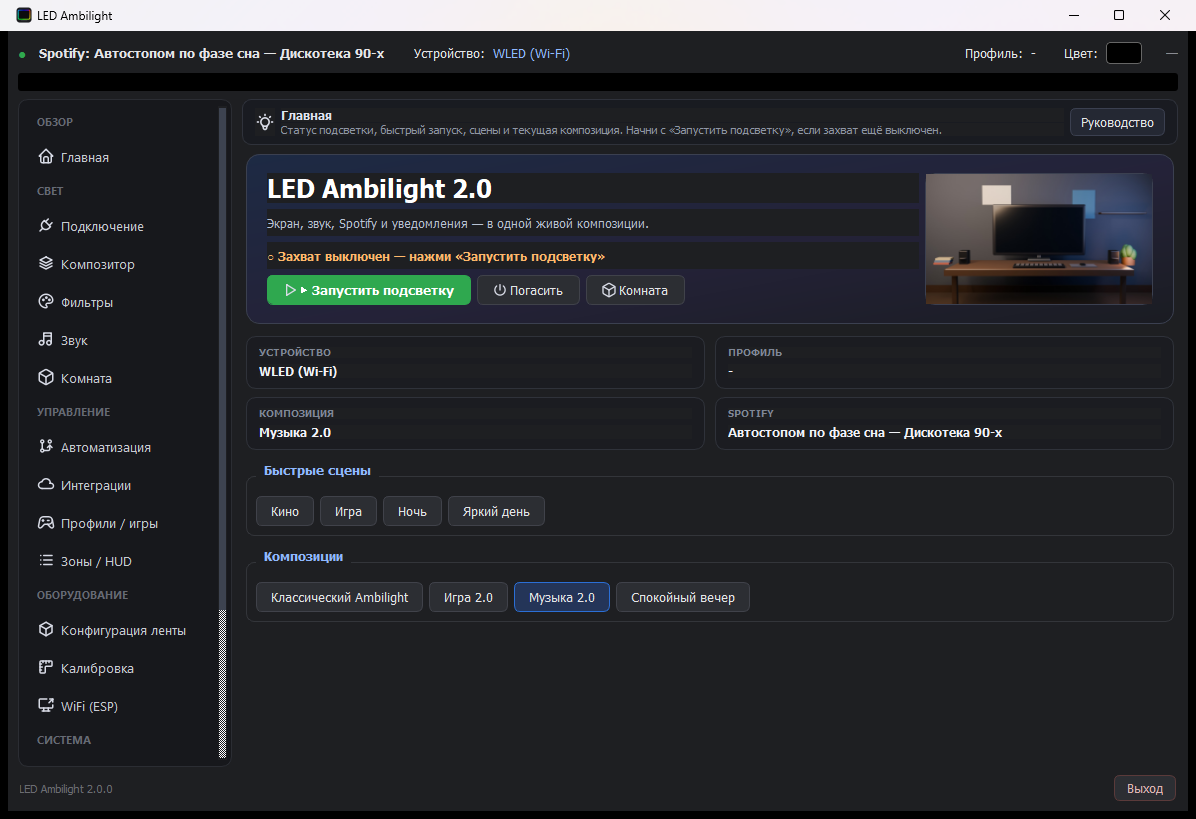
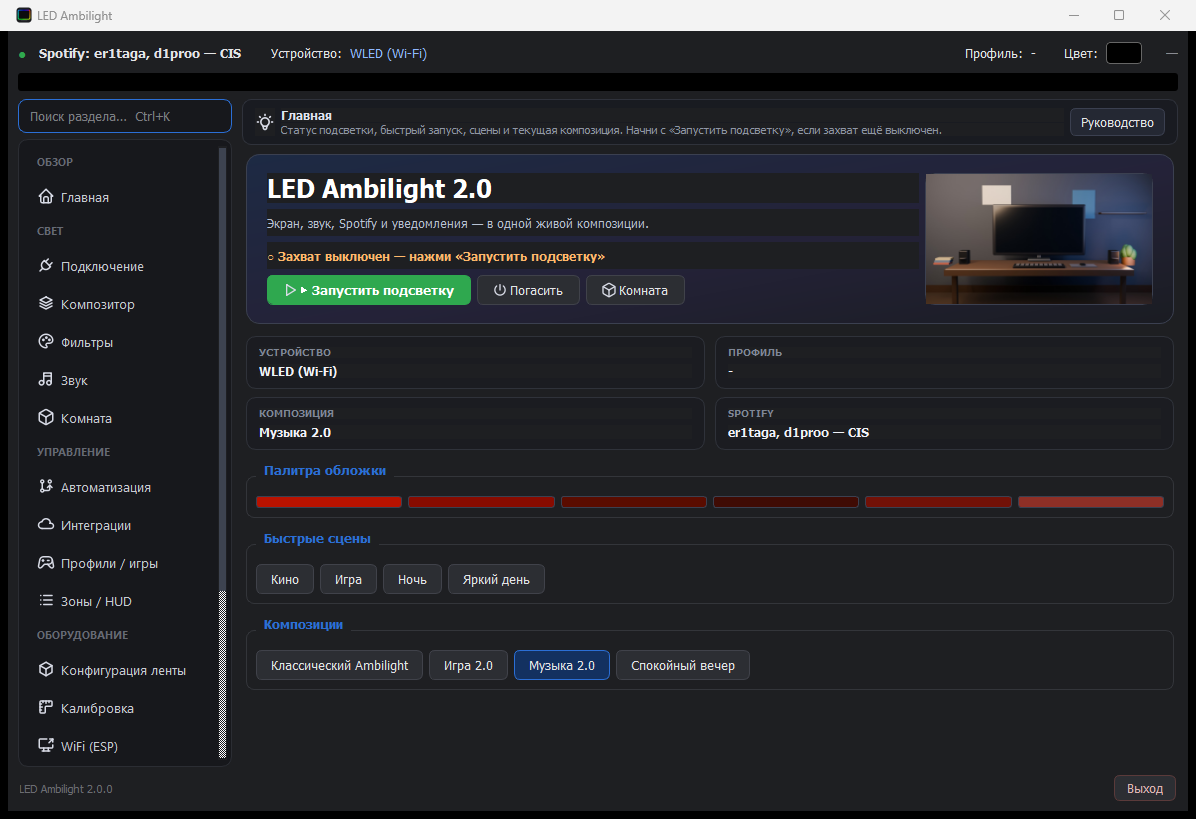
Темы, акценты, поиск разделов и палитра на главной

diff --git a/ledapp/gui.py b/ledapp/gui.py
@@ -43,6 +43,7 @@ from .automation import AutomationEngine
 from .automation_widget import AutomationWidget
 from .integrations_widget import IntegrationsWidget
 from .user_guide import GUIDE_HTML, PAGE_HELP
+from .style import build_stylesheet
 from . import autostart, i18n, updater, __version__
 
 log = logging.getLogger(__name__)
@@ -850,6 +851,9 @@ class MainWindow(QMainWindow):
                                         # но при этом окно свободно уменьшается/растягивается
 
         self.config = load_config()
+        self._ui_accent = self.config.get("ui", {}).get("accent", "#2b6fd6")
+        self._ui_theme = self.config.get("ui", {}).get("theme", "midnight")
+        self._apply_ui_theme()
         i18n.install(self.config.get("language", "ru"))
 
         self._save_timer = QTimer()
@@ -1456,12 +1460,21 @@ class MainWindow(QMainWindow):
 
         content_row = QHBoxLayout()
         content_row.setSpacing(10)
+        sidebar_col = QVBoxLayout()
+        sidebar_col.setSpacing(6)
+        self.sidebar_search = QLineEdit()
+        self.sidebar_search.setObjectName("sidebarSearch")
+        self.sidebar_search.setPlaceholderText("Поиск раздела…  Ctrl+K")
+        self.sidebar_search.setClearButtonEnabled(True)
+        self.sidebar_search.textChanged.connect(self._filter_sidebar)
+        sidebar_col.addWidget(self.sidebar_search)
         self.sidebar = QListWidget()
         self.sidebar.setObjectName("sidebar")
         self.sidebar.setFixedWidth(214)
         self.sidebar.setIconSize(QSize(18, 18))
         self.sidebar.currentRowChanged.connect(self._on_sidebar_changed)
-        content_row.addWidget(self.sidebar)
+        sidebar_col.addWidget(self.sidebar, 1)
+        content_row.addLayout(sidebar_col)
 
         content_col = QVBoxLayout()
         content_col.setSpacing(8)
@@ -1495,6 +1508,8 @@ class MainWindow(QMainWindow):
         content_col.addWidget(tabs, 1)
         content_row.addLayout(content_col, 1)
         root.addLayout(content_row, 1)
+        QShortcut("Ctrl+K", self,
+                  activated=lambda: self.sidebar_search.setFocus())
         self.tabs = tabs
 
         tabs.addTab(self._build_dashboard(), "Главная")
@@ -1774,6 +1789,24 @@ class MainWindow(QMainWindow):
         path = os.path.join(RESOURCE_DIR, "assets", "icons", f"{name}.svg")
         return QIcon(path) if os.path.exists(path) else QIcon()
 
+    def _apply_ui_theme(self):
+        app = QApplication.instance()
+        if app is None:
+            return
+        self._ui_theme = (self.config.get("ui") or {}).get("theme", "midnight")
+        self._ui_accent = (self.config.get("ui") or {}).get("accent", "#2b6fd6")
+        app.setStyleSheet(build_stylesheet(self._ui_theme, self._ui_accent))
+
+    def _on_ui_theme_changed(self, theme):
+        self.config.setdefault("ui", {})["theme"] = str(theme)
+        self._apply_ui_theme()
+        self._queue_save()
+
+    def _on_ui_accent_changed(self, accent):
+        self.config.setdefault("ui", {})["accent"] = str(accent)
+        self._apply_ui_theme()
+        self._queue_save()
+
     def _populate_sidebar(self):
         self.sidebar.blockSignals(True)
         self.sidebar.clear()
@@ -1820,6 +1853,21 @@ class MainWindow(QMainWindow):
                     item.setToolTip(tab_help)
             self.sidebar.addItem(item)
         self.sidebar.blockSignals(False)
+        self._filter_sidebar(self.sidebar_search.text()
+                             if hasattr(self, "sidebar_search") else "")
+
+    def _filter_sidebar(self, text):
+        if not hasattr(self, "sidebar"):
+            return
+        query = str(text or "").strip().lower()
+        for row in range(self.sidebar.count()):
+            item = self.sidebar.item(row)
+            if item is None:
+                continue
+            if item.data(Qt.UserRole) is None:
+                item.setHidden(bool(query))
+            else:
+                item.setHidden(bool(query) and query not in item.text().lower())
 
     def _on_sidebar_changed(self, row):
         item = self.sidebar.item(row)
@@ -1895,6 +1943,20 @@ class MainWindow(QMainWindow):
         self.dash_spotify = self._dashboard_card(cards, 1, 1, "Spotify", "—")
         layout.addLayout(cards)
 
+        palette_group = QGroupBox("Палитра обложки")
+        palette_row = QHBoxLayout(palette_group)
+        self.dash_palette_labels = []
+        for _ in range(6):
+            swatch = QLabel()
+            swatch.setFixedHeight(12)
+            swatch.setMinimumWidth(24)
+            swatch.setStyleSheet(
+                "background:#2b2e38; border-radius:3px; border:1px solid #3b4050;"
+            )
+            palette_row.addWidget(swatch, 1)
+            self.dash_palette_labels.append(swatch)
+        layout.addWidget(palette_group)
+
         quick = QGroupBox("Быстрые сцены")
         quick_row = QHBoxLayout(quick)
         for name in ("Кино", "Игра", "Ночь", "Яркий день"):
@@ -1966,6 +2028,19 @@ class MainWindow(QMainWindow):
             f"{track.get('artists', '')} — {track.get('name', '')}"
             if track else "Не играет"
         )
+        palette = getattr(self.worker, "spotify_palette", None) or []
+        for index, swatch in enumerate(getattr(self, "dash_palette_labels", [])):
+            if palette:
+                color = palette[index % len(palette)]
+                if isinstance(color, (list, tuple)) and len(color) >= 3:
+                    swatch.setStyleSheet(
+                        "background: rgb(%d,%d,%d); border-radius:3px;"
+                        " border:1px solid #3b4050;" % tuple(color[:3])
+                    )
+                    continue
+            swatch.setStyleSheet(
+                "background:#2b2e38; border-radius:3px; border:1px solid #3b4050;"
+            )
         for composition_id, button in getattr(self, "dash_comp_buttons", {}).items():
             button.setProperty("active", composition_id == active)
             button.style().unpolish(button)
@@ -5076,6 +5151,42 @@ class MainWindow(QMainWindow):
     def _build_system_tab(self):
         w = QWidget()
         layout = QVBoxLayout(w)
+
+        # --- оформление ---
+        appearance = QGroupBox("Оформление")
+        appearance_form = QFormLayout(appearance)
+        ui_cfg = self.config.get("ui", {})
+        theme_combo = QComboBox()
+        theme_combo.addItem("Ночной синий", "midnight")
+        theme_combo.addItem("Океан", "ocean")
+        theme_combo.addItem("Слива", "plum")
+        theme_combo.addItem("Лес", "forest")
+        theme_combo.setCurrentIndex(
+            max(0, theme_combo.findData(ui_cfg.get("theme", "midnight")))
+        )
+        theme_combo.currentIndexChanged.connect(
+            lambda i: self._on_ui_theme_changed(theme_combo.itemData(i))
+        )
+        appearance_form.addRow("Цветовая тема:", theme_combo)
+
+        accent_combo = QComboBox()
+        for name, color in (
+            ("Синий", "#2b6fd6"), ("Зелёный", "#2fa84f"),
+            ("Фиолетовый", "#8b5cf6"), ("Оранжевый", "#f08a24"),
+            ("Розовый", "#e04f8a"),
+        ):
+            accent_combo.addItem(name, color)
+        accent_combo.setCurrentIndex(
+            max(0, accent_combo.findData(ui_cfg.get("accent", "#2b6fd6")))
+        )
+        accent_combo.currentIndexChanged.connect(
+            lambda i: self._on_ui_accent_changed(accent_combo.itemData(i))
+        )
+        appearance_form.addRow("Акцент:", accent_combo)
+        appearance_form.addRow(QLabel(
+            "Тема меняет фон и боковое меню, акцент — выделение, ползунки и кнопки."
+        ))
+        layout.addWidget(appearance)
 
         # --- производительность ---
         perf_box = QGroupBox("Производительность")

diff --git a/ledapp/style.py b/ledapp/style.py
@@ -387,4 +387,55 @@ QTextBrowser#guideBrowser {
     color: #e4e6ec;
 }
 
+QLineEdit#sidebarSearch {
+    background-color: #17181c;
+    border: 1px solid #2f323b;
+    border-radius: 8px;
+    padding: 7px 9px;
+    color: #e4e6ec;
+    selection-background-color: #2b6fd6;
+}
+QLineEdit#sidebarSearch:focus {
+    border-color: #2b6fd6;
+}
+
 """
+
+THEME_TINTS = {
+    "midnight": {},
+    "ocean": {
+        "#1e1f22": "#10202b", "#232428": "#182a36", "#17181c": "#0e1b24",
+        "#1b1c21": "#14232e", "#191b21": "#12222c", "#1a1c22": "#10212c",
+        "#1d2a44": "#12384a", "#242238": "#1c3040", "#262931": "#20333f",
+        "#2a2d36": "#1b2d39",
+    },
+    "plum": {
+        "#1e1f22": "#241a2b", "#232428": "#2d2036", "#17181c": "#1c1422",
+        "#1b1c21": "#2a1f33", "#191b21": "#261a2e", "#1a1c22": "#211526",
+        "#1d2a44": "#35204d", "#242238": "#3a2145", "#262931": "#33213c",
+        "#2a2d36": "#302039",
+    },
+    "forest": {
+        "#1e1f22": "#14231c", "#232428": "#1b3025", "#17181c": "#101c16",
+        "#1b1c21": "#192b22", "#191b21": "#15251d", "#1a1c22": "#12221a",
+        "#1d2a44": "#173b2b", "#242238": "#1c3528", "#262931": "#20382b",
+        "#2a2d36": "#1d3327",
+    },
+}
+
+
+def build_stylesheet(theme="midnight", accent="#2b6fd6"):
+    css = APP_STYLESHEET
+    for old, new in THEME_TINTS.get(str(theme or "midnight"), {}).items():
+        css = css.replace(old, new)
+    accent = str(accent or "#2b6fd6").lower()
+    if len(accent) == 7 and accent.startswith("#"):
+        css = css.replace("#2b6fd6", accent)
+        css = css.replace("#8fb8ff", accent)
+        try:
+            rgb = [int(accent[i:i + 2], 16) for i in (1, 3, 5)]
+            dark = "#%02x%02x%02x" % tuple(max(0, int(v * 0.45)) for v in rgb)
+            css = css.replace("#243558", dark)
+        except Exception:
+            pass
+    return css

diff --git a/ledapp/config.py b/ledapp/config.py
@@ -69,6 +69,10 @@ DEFAULT_CONFIG = {
     "capture_region": None,      # [left, top, width, height] или None = весь экран
     "monitor_index": 0,          # индекс монитора DXGI (0 = основной)
     "language": "ru",            # "ru" или "en"
+    "ui": {
+        "theme": "midnight",     # midnight | ocean | plum | forest
+        "accent": "#2b6fd6",     # акцентный цвет интерфейса
+    },
     "last_scene": "",            # последний выбранный пресет сцены
 
     "minimize_to_tray": True,     # закрытие окна сворачивает в трей вместо выхода
@@ -439,7 +443,7 @@ _DICT_SECTIONS = (
     "filters", "audio", "process_profile_map",
     "adaptive_fps", "power", "auto_pause", "hotkeys", "content", "remote",
     "lamp", "schedule", "sunrise", "app_scenes", "app_title_scenes", "mqtt", "updates",
-    "game_mode", "scene_composer", "automation", "integrations",
+    "game_mode", "scene_composer", "automation", "integrations", "ui",
 )
 
 _INT_RANGES = {
@@ -554,6 +558,18 @@ def _sanitize(config):
         if config.get(key) not in allowed:
             log.warning("Недопустимое значение %r=%r, ставлю %r", key, config.get(key), fallback)
             config[key] = fallback
+
+    ui = config.setdefault("ui", {})
+    if ui.get("theme") not in ("midnight", "ocean", "plum", "forest"):
+        ui["theme"] = "midnight"
+    accent = str(ui.get("accent", "#2b6fd6") or "#2b6fd6")
+    if not (len(accent) == 7 and accent.startswith("#")):
+        accent = "#2b6fd6"
+    try:
+        int(accent[1:], 16)
+    except ValueError:
+        accent = "#2b6fd6"
+    ui["accent"] = accent.lower()
 
     last_scene = config.get("last_scene", "")
     if not isinstance(last_scene, str):

diff --git a/CHANGELOG.md b/CHANGELOG.md
@@ -12,6 +12,8 @@
   профиль и текущий трек Spotify.
 - На каждой странице — короткая подсказка «что здесь», плюс встроенное
   «Руководство» с настройкой Spotify, Telegram, автоматизации и звука.
+- Четыре темы (ночной синий, океан, слива, лес) и пять акцентов;
+  поиск по разделам (`Ctrl+K`) и живая палитра обложки на главной.
 - Обновлённые карточки, скроллбары и тёмная тема; окно 1180×780.
 
 ### Scene Composer

diff --git a/release_notes_v2.0.0.md b/release_notes_v2.0.0.md
@@ -12,6 +12,9 @@
 - на каждой странице — короткая подсказка «что здесь»;
 - встроенное **Руководство**: подключение, композитор, автоматизация,
   Spotify, Telegram, звук, лента;
+- четыре темы (ночной синий, океан, слива, лес), пять акцентов и поиск
+  по разделам (`Ctrl+K`);
+- живая палитра обложки Spotify на главной;
 - иконки Tabler Icons (MIT), карточки и аккуратные скроллбары;
 - окно по умолчанию 1180×780.
 
